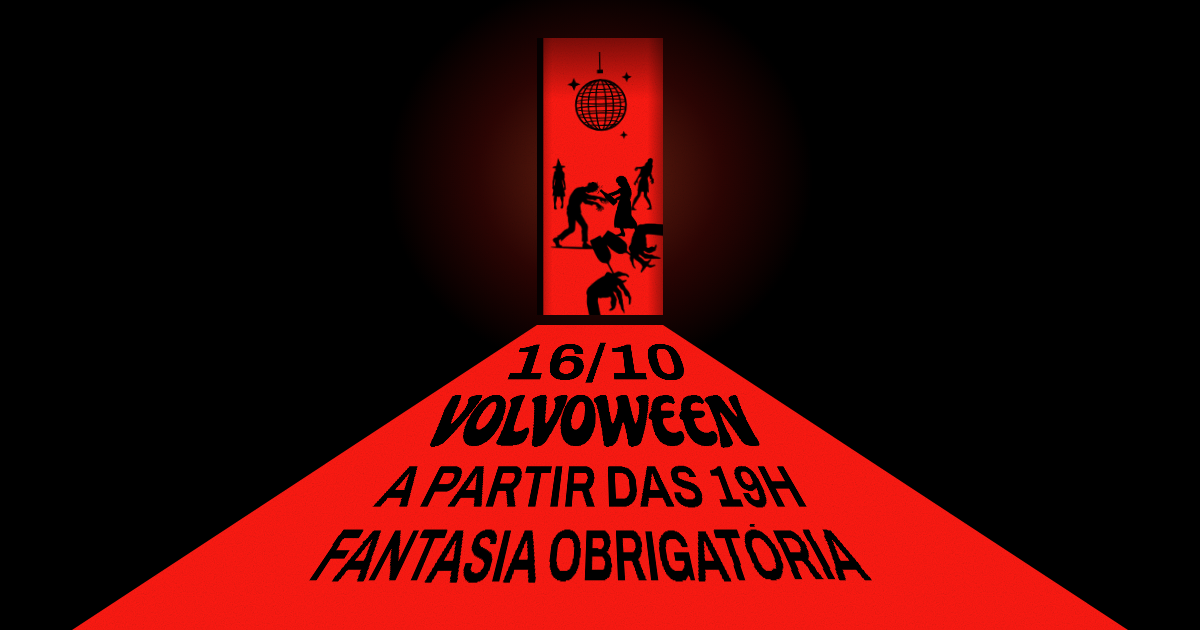
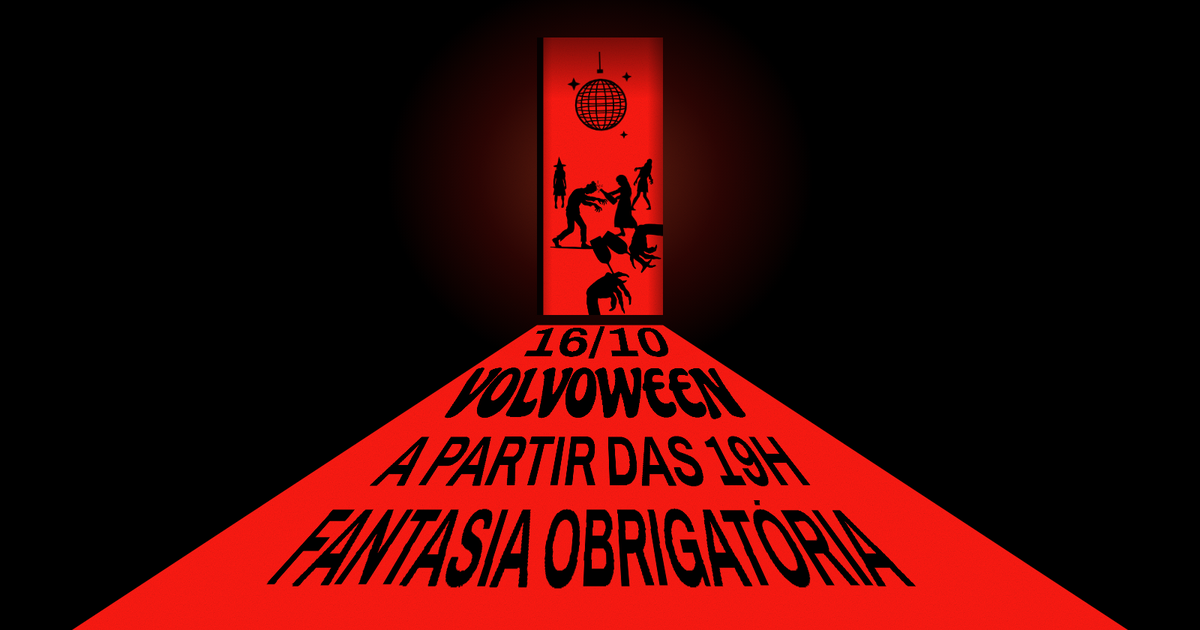
Letra de cartaz: mais alta, mais apertada, ocupando o feixe
O texto estava tecnicamente esticado até a largura certa, mas lia como
etiqueta em vez de tipografia de cartaz. Faltavam duas coisas.

Altura. O bloco é deitado no plano do feixe com 34° de rotação, e isso
achata a letra em cerca de 17% antes de ela chegar à tela — o desenho
saía mais baixo do que foi feito. Entra uma compensação um pouco maior
que o achatamento, porque letra de cartaz é alta de propósito: é a altura
que dá o peso.

Aperto. As linhas ficam coladas, sem espaço entre elas — cada uma já
carrega a folga do acento dentro da própria caixa, e é o empilhamento
apertado que faz as quatro virarem uma massa preta em vez de quatro
frases separadas.

Com a letra mais alta o bloco cresceu, e sobrou menos altura para
trabalhar: o teto de altura subiu e o respiro do rodapé encolheu, o que
devolveu largura. Medido em quatro telas — 1920x860, 1280x860, 1440x780 e
390x844: cabe em todas, com folga de 25 a 29 pixels no rodapé, e as
linhas ocupando de 77% a 91% do feixe na sua altura.

O card de link passa a ser capturado numa janela maior de mesma proporção
e reduzido depois. Na janela de 1200x630 o cartaz, agora mais alto, subia
por cima da porta e a data sumia no preto — capturar grande e reduzir
preserva a composição em vez de espremê-la.

Claude-Session: https://claude.ai/code/session_01RN4zWGHy3HAffxFjYFiAEF

Changed region(s): [[0.2158, 0.5127, 0.7708, 0.9349], [0.4625, 0.2714, 0.555, 0.4825], [0.4625, 0.1206, 0.5242, 0.2111]]

diff --git a/src/components/PosterWord.tsx b/src/components/PosterWord.tsx
@@ -15,6 +15,19 @@
 /** Largura média da letra, em relação à altura, em cada família. */
 const PROPORCAO = { display: 0.56, heading: 0.6 } as const;
 
+/**
+ * O quanto a linha cresce na vertical além do que a proporção pediria.
+ *
+ * Existe por causa da perspectiva: o bloco é deitado no plano do feixe com uma
+ * rotação de 34°, e isso achata a altura em cerca de 17% antes de a letra
+ * chegar à tela. Sem compensar, o texto sai mais baixo do que foi desenhado e o
+ * cartaz lê como uma etiqueta esticada em vez de tipografia de cartaz.
+ *
+ * A compensação é um pouco maior que o achatamento — letra de cartaz é alta de
+ * propósito, e é a altura que dá o peso.
+ */
+const ESTICA = 1.28;
+
 export function PosterWord({
   children,
   familia = "display",
@@ -25,7 +38,7 @@ export function PosterWord({
   className?: string;
 }) {
   const texto = children.toUpperCase();
-  const altura = 1000 / (PROPORCAO[familia] * Math.max(texto.length, 3));
+  const altura = (1000 * ESTICA) / (PROPORCAO[familia] * Math.max(texto.length, 3));
   // O SVG recorta no viewBox. Sem folga, acento de maiúscula (Ó, Ç) e vírgula
   // ficam de fora — a caixa é calculada pela altura das maiúsculas, e eles
   // passam disso. A folga entra na caixa mas não no cálculo da proporção.

diff --git a/src/components/PosterLines.tsx b/src/components/PosterLines.tsx
@@ -10,6 +10,10 @@ import { event, shortDateLabel } from "@/config/event";
  * No cartaz de referência é assim — uma palavra domina e as outras acompanham,
  * em vez de todas crescerem no mesmo ritmo.
  *
+ * As linhas ficam coladas umas nas outras, sem espaço entre elas: cada uma já
+ * carrega a folga do acento dentro da própria caixa, e é o empilhamento apertado
+ * que faz o conjunto virar uma massa preta em vez de quatro frases separadas.
+ *
  * A perspectiva de fora é que produz o trapézio; aqui as larguras são relativas
  * ao bloco, não à tela.
  *
@@ -32,7 +36,7 @@ const LINHAS = [
 
 export function PosterLines() {
   return (
-    <div className="flex w-full flex-col items-center gap-[0.5vw]">
+    <div className="flex w-full flex-col items-center gap-0">
       {LINHAS.map(({ texto, familia, largura }) => (
         <div
           key={texto}

diff --git a/src/components/Opening.tsx b/src/components/Opening.tsx
@@ -288,7 +288,7 @@ export function Opening() {
           style={{ height: "34%", perspective: "180px", perspectiveOrigin: "50% 0%" }}
         >
           <div
-            className="flex w-[min(78vw,63svh)] items-end justify-center pb-[4vh] sm:w-[min(66vw,100svh)]"
+            className="flex w-[min(79vw,66svh)] items-end justify-center pb-[2vh] sm:w-[min(66vw,116svh)]"
             style={{ transform: "rotateX(34deg)", transformOrigin: "50% 100%" }}
           >
             <h1 className="sr-only">
